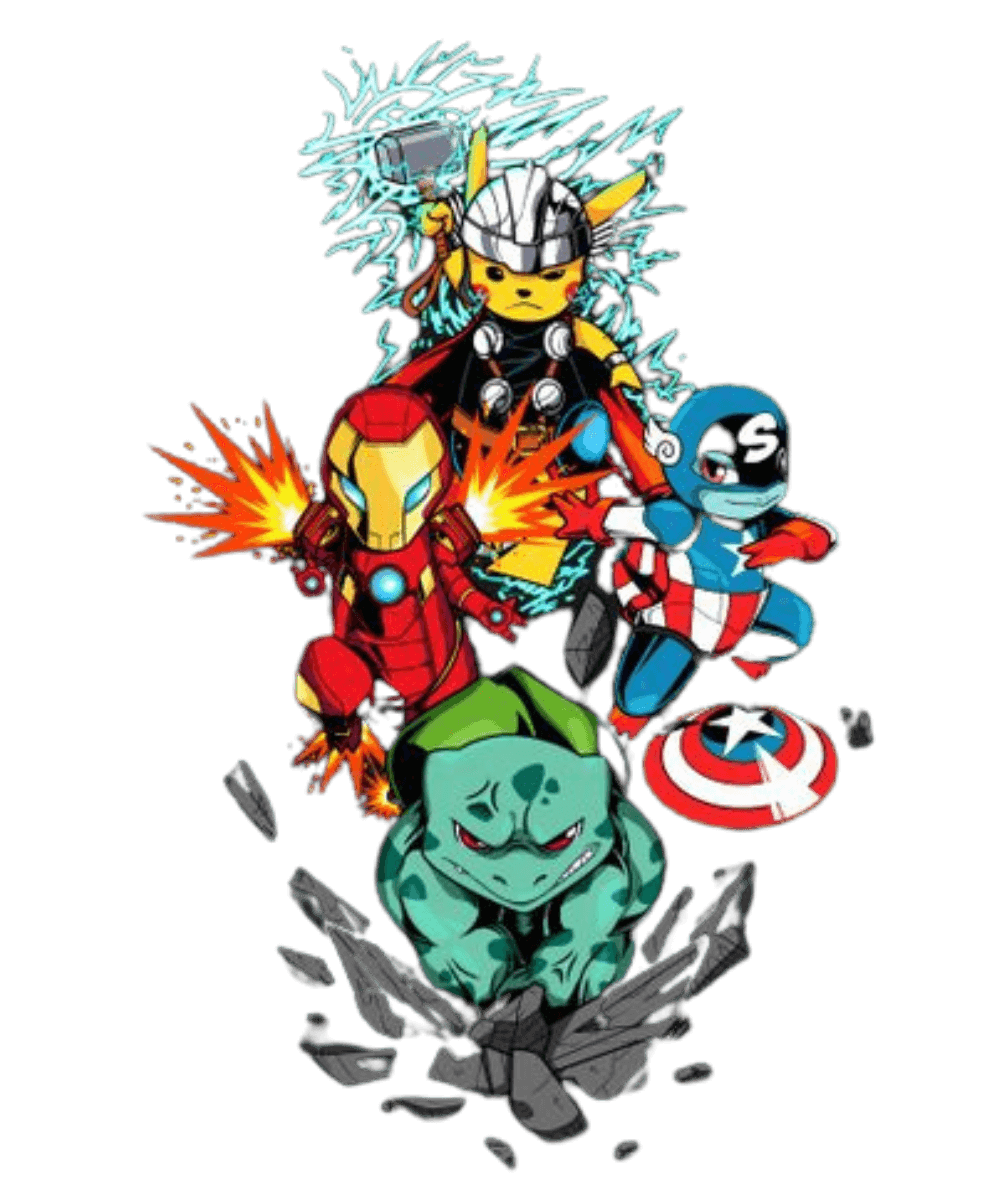
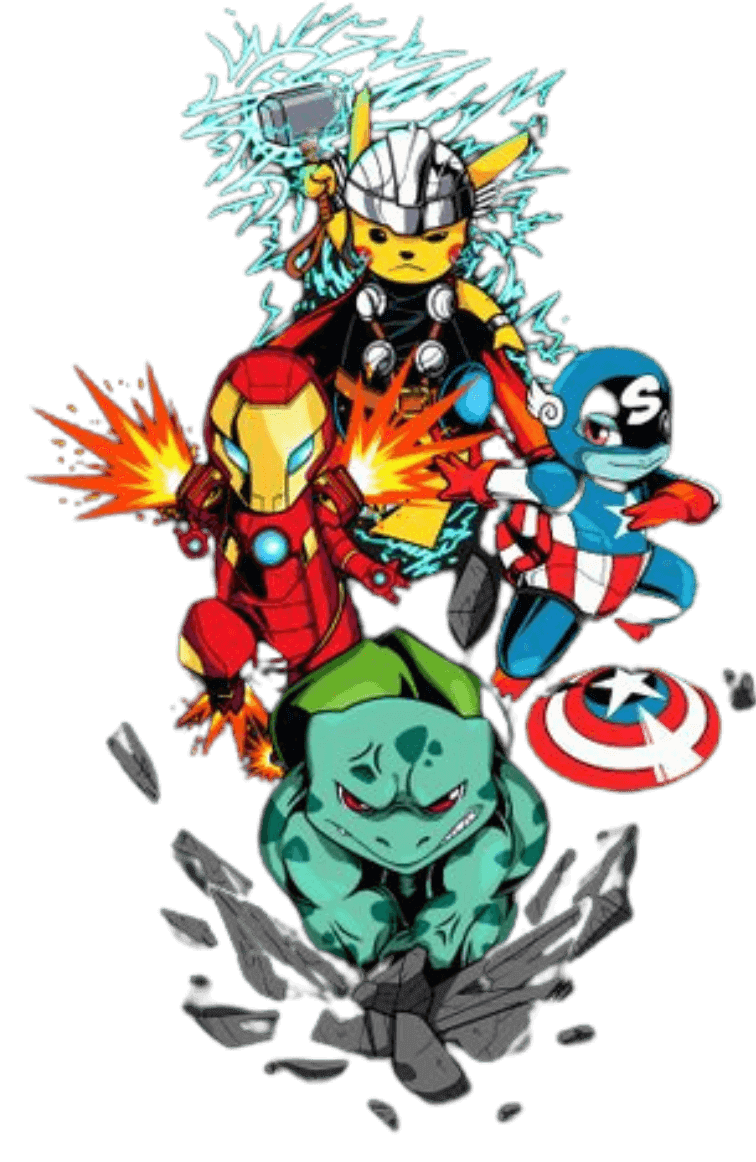
responsive layout of the home page

diff --git a/src/sass/pagesInit.scss b/src/sass/pagesInit.scss
@@ -2,110 +2,85 @@
 
 .gameStart{
     width: 100%;
-    height: 100vh;
+   // height: 100vh;
     padding: 70px 0;
     @include flex-column-center();
-    background: linear-gradient(rgba(0, 0, 0, 0.05) 100%, rgba(0, 0, 0, 0.05) 100%), url(./img/backgroundYellow.jpg) no-repeat center/cover;
+    background: linear-gradient(rgba(0, 0, 0, 0.05) 100%, rgba(0, 0, 0, 0.05) 100%), url(../img/backgroundYellow.jpg) no-repeat center/cover;
     gap: 20px;
-    background-color: gold;
 
 
     &_container {
         width: 90%;
-        height: 750px;
         @include flex-column-center();
+        gap: 60px;
     }
 
     &_title {
-        width: 90%;
+        width: 80%;
+        max-width: 400px;
         @include perfect-center();
     }
 
     &_imgTitle {
+
         @include perfect-center();
     }
 
     &_img {
-        width: 90%;
+        width: 80%;
+        max-width: 700px;
         @include perfect-center();
     }
 
     &_imgInit {
-        width: 300px;
-        height: 380px;
+        width: 100%;
         @include perfect-center();
     }
 
-    &_button {
-        width: 90%;
-        @include perfect-center
+    &_containerButton {
+        width: 50%;
+        @include perfect-center();
     }
 
-    &_buttonInit {
-        width: 80px;
-        height: 30px;
-        border-radius: 20px;
-        background-color: #112F91;
+    &_buttonPlay {
+        width: 100%;
+        max-width: 200px;
+        padding: 30px 40px;
+        border-radius: 50%;
         border-style: none;
-        font-weight: 100;
-        font-size: large;
-        @include perfect-center();
-        margin-top: 20px;
+        background-color: #00A3FF;
+        font-family: "Mochiy Pop One", sans-serif;
+        font-size: 30px;
+        color: white;
+        cursor: pointer;
+        box-shadow: rgba(50, 50, 93, 0.25) 0px 30px 60px -12px inset, rgba(0, 0, 0, 0.3) 0px 18px 36px -18px inset;
+
+
+        &:hover{
+            background: #1490d8;
+            box-shadow: rgba(0, 0, 0, 0.17) 0px -23px 25px 0px inset, rgba(0, 0, 0, 0.15) 0px -36px 30px 0px inset, rgba(0, 0, 0, 0.1) 0px -79px 40px 0px inset, rgba(0, 0, 0, 0.06) 0px 2px 1px, rgba(0, 0, 0, 0.09) 0px 4px 2px, rgba(0, 0, 0, 0.09) 0px 8px 4px, rgba(0, 0, 0, 0.09) 0px 16px 8px, rgba(0, 0, 0, 0.09) 0px 32px 16px;
+        }
     }
 
 }
 
-@media (min-width: 750px) {
+// @media (min-width: 750px) {
     
-    .gameStart{
+//     .gameStart{
+        
+//         &_imgInit {
+//             max-width: 700px;
+//         }
+//     }
+// }
 
-        &_imgTitle{
-            width: 340px;
-            height: 90px;
-            margin-top: 10px;
-            padding: 0;
-        }
+// @media (min-width: 1024px) {
 
-        &_imgInit {
-            width: 520px;
-            height: 350px;
-            margin-top: 2px;
-        }
+//     .gameStart{
 
-        &_buttonInit {
-            width: 90px;
-            height: 35px;
-            font-weight: 200;
-            font-size: x-large;
-            margin-top: 20px;
-            
-        }
-    }
-}
+//         &_imgInit {
+//             max-width: 750px;
+//         }
 
-@media (min-width: 1024px) {
-
-    .gameStart{
-
-        &_imgTitle{
-            margin-top: 20px;
-            width: 380px;
-        }
-
-        &_imgInit {
-            width: 550px;
-            height: 350px;
-            margin-top: 2px;
-        }
-
-        &_buttonInit {
-            width: 120px;
-            height: 40px;
-            font-weight: 300;
-            font-size: x-large;
-            margin-top: 20px;
-            
-        }
-    
-    }
-}
+//     }
+// }

diff --git a/src/styles/pagesInit.css b/src/styles/pagesInit.css
@@ -1,23 +1,22 @@
 .gameStart {
   width: 100%;
-  height: 100vh;
   padding: 70px 0;
   display: flex;
   flex-direction: column;
   justify-content: center;
   align-items: center;
-  background: linear-gradient(rgba(0, 0, 0, 0.05) 100%, rgba(0, 0, 0, 0.05) 100%), url(./img/backgroundYellow.jpg) no-repeat center/cover;
-  gap: 20px;
-  background-color: gold; }
+  background: linear-gradient(rgba(0, 0, 0, 0.05) 100%, rgba(0, 0, 0, 0.05) 100%), url(../img/backgroundYellow.jpg) no-repeat center/cover;
+  gap: 20px; }
   .gameStart_container {
     width: 90%;
-    height: 750px;
     display: flex;
     flex-direction: column;
     justify-content: center;
-    align-items: center; }
+    align-items: center;
+    gap: 60px; }
   .gameStart_title {
-    width: 90%;
+    width: 80%;
+    max-width: 400px;
     display: flex;
     align-items: center;
     justify-content: center; }
@@ -26,62 +25,33 @@
     align-items: center;
     justify-content: center; }
   .gameStart_img {
-    width: 90%;
+    width: 80%;
+    max-width: 700px;
     display: flex;
     align-items: center;
     justify-content: center; }
   .gameStart_imgInit {
-    width: 300px;
-    height: 380px;
+    width: 100%;
     display: flex;
     align-items: center;
     justify-content: center; }
-  .gameStart_button {
-    width: 90%;
+  .gameStart_containerButton {
+    width: 50%;
     display: flex;
     align-items: center;
     justify-content: center; }
-  .gameStart_buttonInit {
-    width: 80px;
-    height: 30px;
-    border-radius: 20px;
-    background-color: #112F91;
+  .gameStart_buttonPlay {
+    width: 100%;
+    max-width: 200px;
+    padding: 30px 40px;
+    border-radius: 50%;
     border-style: none;
-    font-weight: 100;
-    font-size: large;
-    display: flex;
-    align-items: center;
-    justify-content: center;
-    margin-top: 20px; }
-
-@media (min-width: 750px) {
-  .gameStart_imgTitle {
-    width: 340px;
-    height: 90px;
-    margin-top: 10px;
-    padding: 0; }
-  .gameStart_imgInit {
-    width: 520px;
-    height: 350px;
-    margin-top: 2px; }
-  .gameStart_buttonInit {
-    width: 90px;
-    height: 35px;
-    font-weight: 200;
-    font-size: x-large;
-    margin-top: 20px; } }
-
-@media (min-width: 1024px) {
-  .gameStart_imgTitle {
-    margin-top: 20px;
-    width: 380px; }
-  .gameStart_imgInit {
-    width: 550px;
-    height: 350px;
-    margin-top: 2px; }
-  .gameStart_buttonInit {
-    width: 120px;
-    height: 40px;
-    font-weight: 300;
-    font-size: x-large;
-    margin-top: 20px; } }
+    background-color: #00A3FF;
+    font-family: "Mochiy Pop One", sans-serif;
+    font-size: 30px;
+    color: white;
+    cursor: pointer;
+    box-shadow: rgba(50, 50, 93, 0.25) 0px 30px 60px -12px inset, rgba(0, 0, 0, 0.3) 0px 18px 36px -18px inset; }
+    .gameStart_buttonPlay:hover {
+      background: #1490d8;
+      box-shadow: rgba(0, 0, 0, 0.17) 0px -23px 25px 0px inset, rgba(0, 0, 0, 0.15) 0px -36px 30px 0px inset, rgba(0, 0, 0, 0.1) 0px -79px 40px 0px inset, rgba(0, 0, 0, 0.06) 0px 2px 1px, rgba(0, 0, 0, 0.09) 0px 4px 2px, rgba(0, 0, 0, 0.09) 0px 8px 4px, rgba(0, 0, 0, 0.09) 0px 16px 8px, rgba(0, 0, 0, 0.09) 0px 32px 16px; }

diff --git a/src/index.html b/src/index.html
@@ -23,8 +23,8 @@
         <img class="gameStart_imgInit" src="./img/imgInit.png" alt="">
       </div>
 
-      <div class="gameStart_button">
-        <button class="gameStart_buttonInit" id="button">Play</button>
+      <div class="gameStart_containerButton">
+        <button class="gameStart_buttonPlay" id="button">Play</button>
       </div>
     </div>
 
